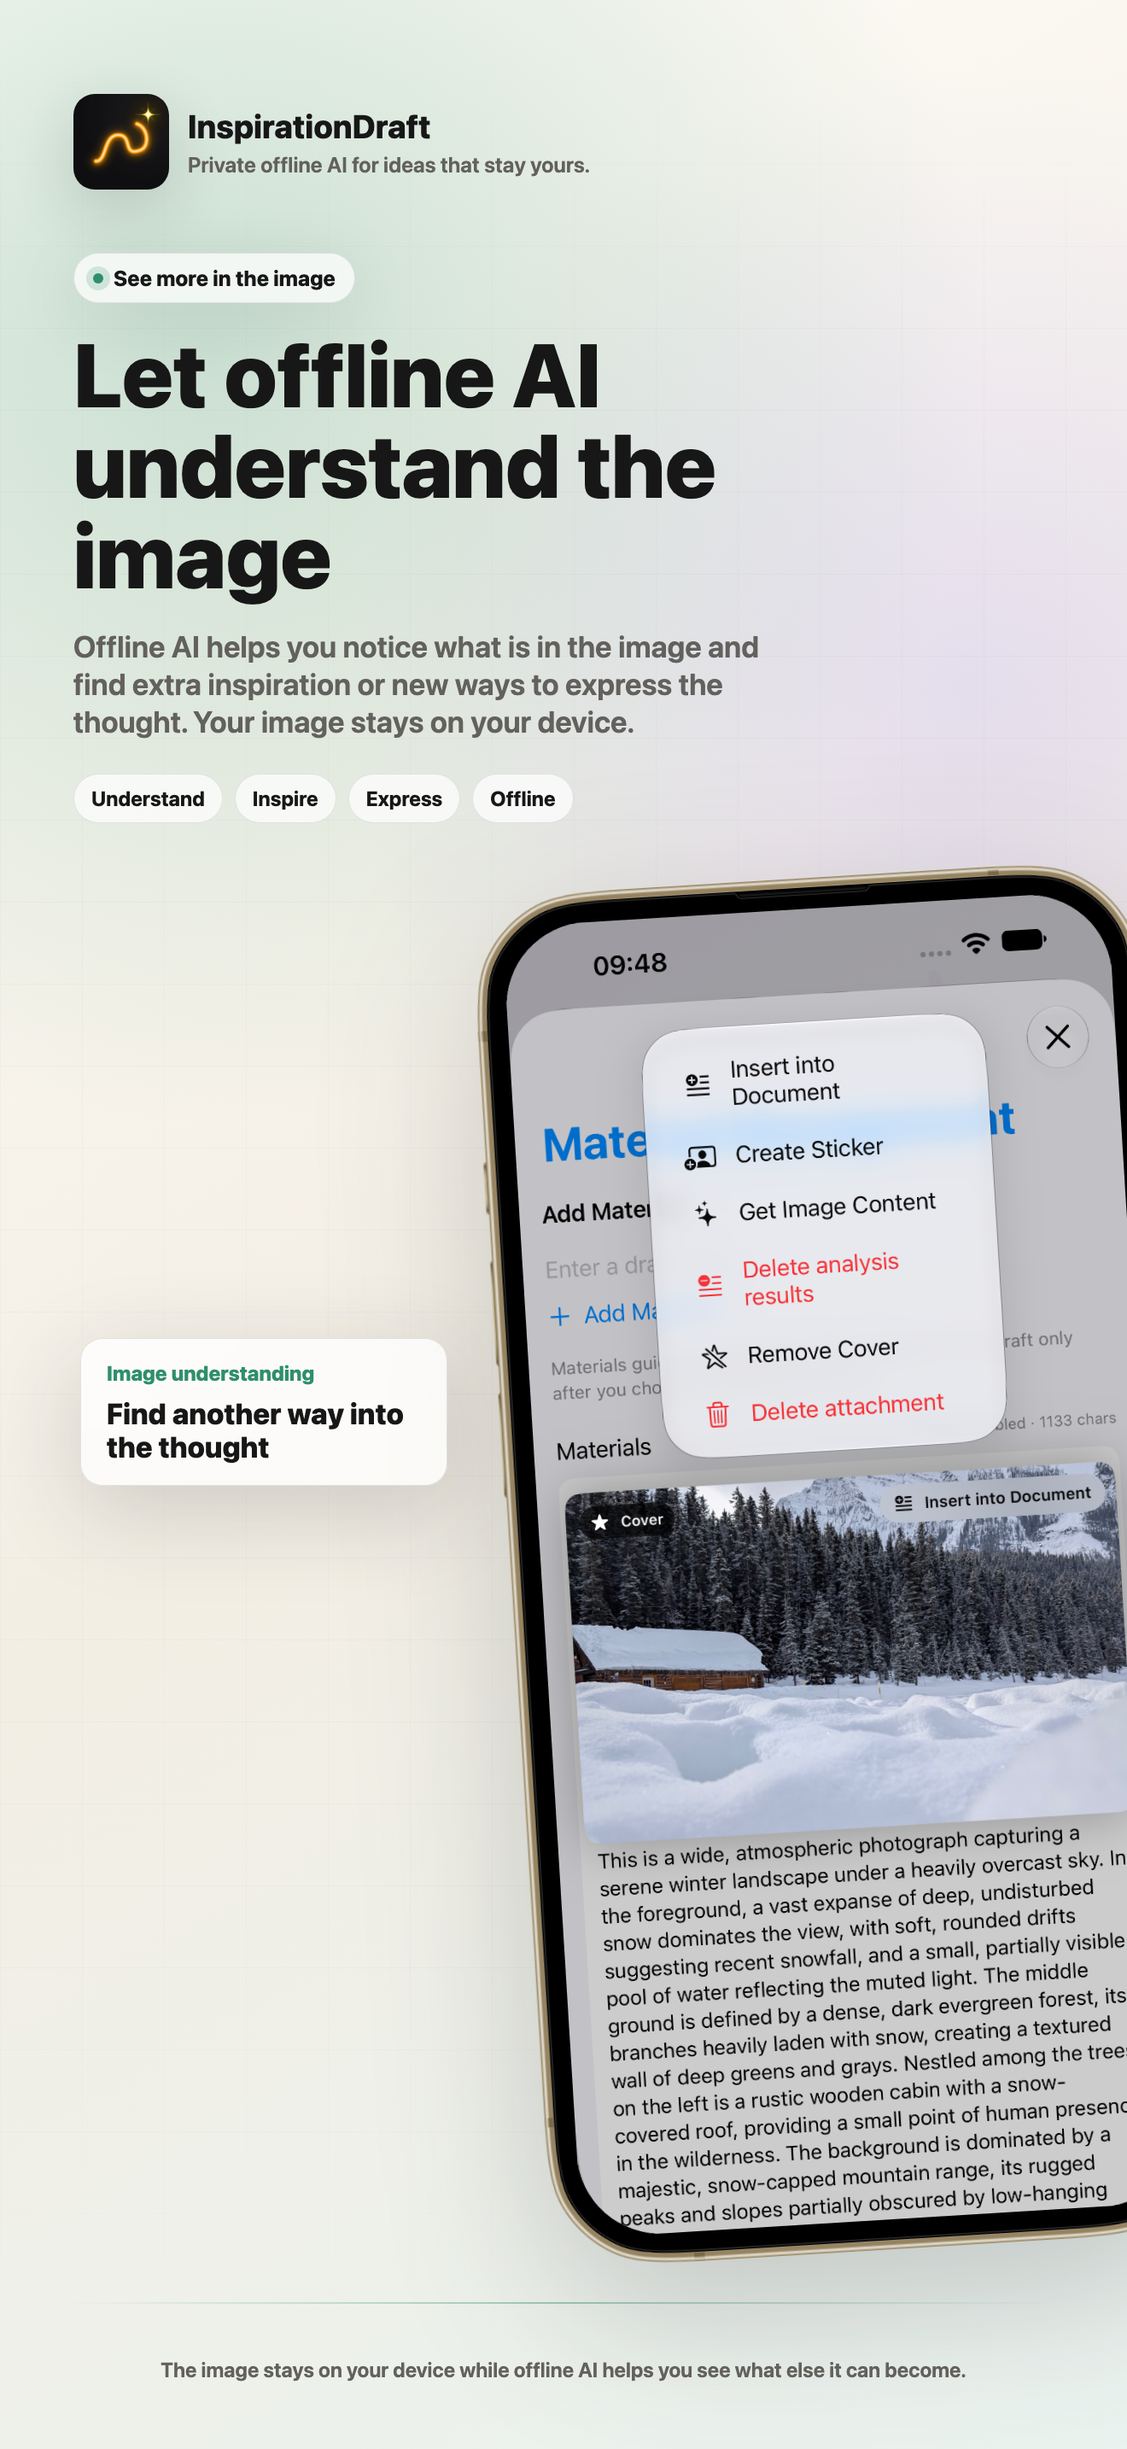
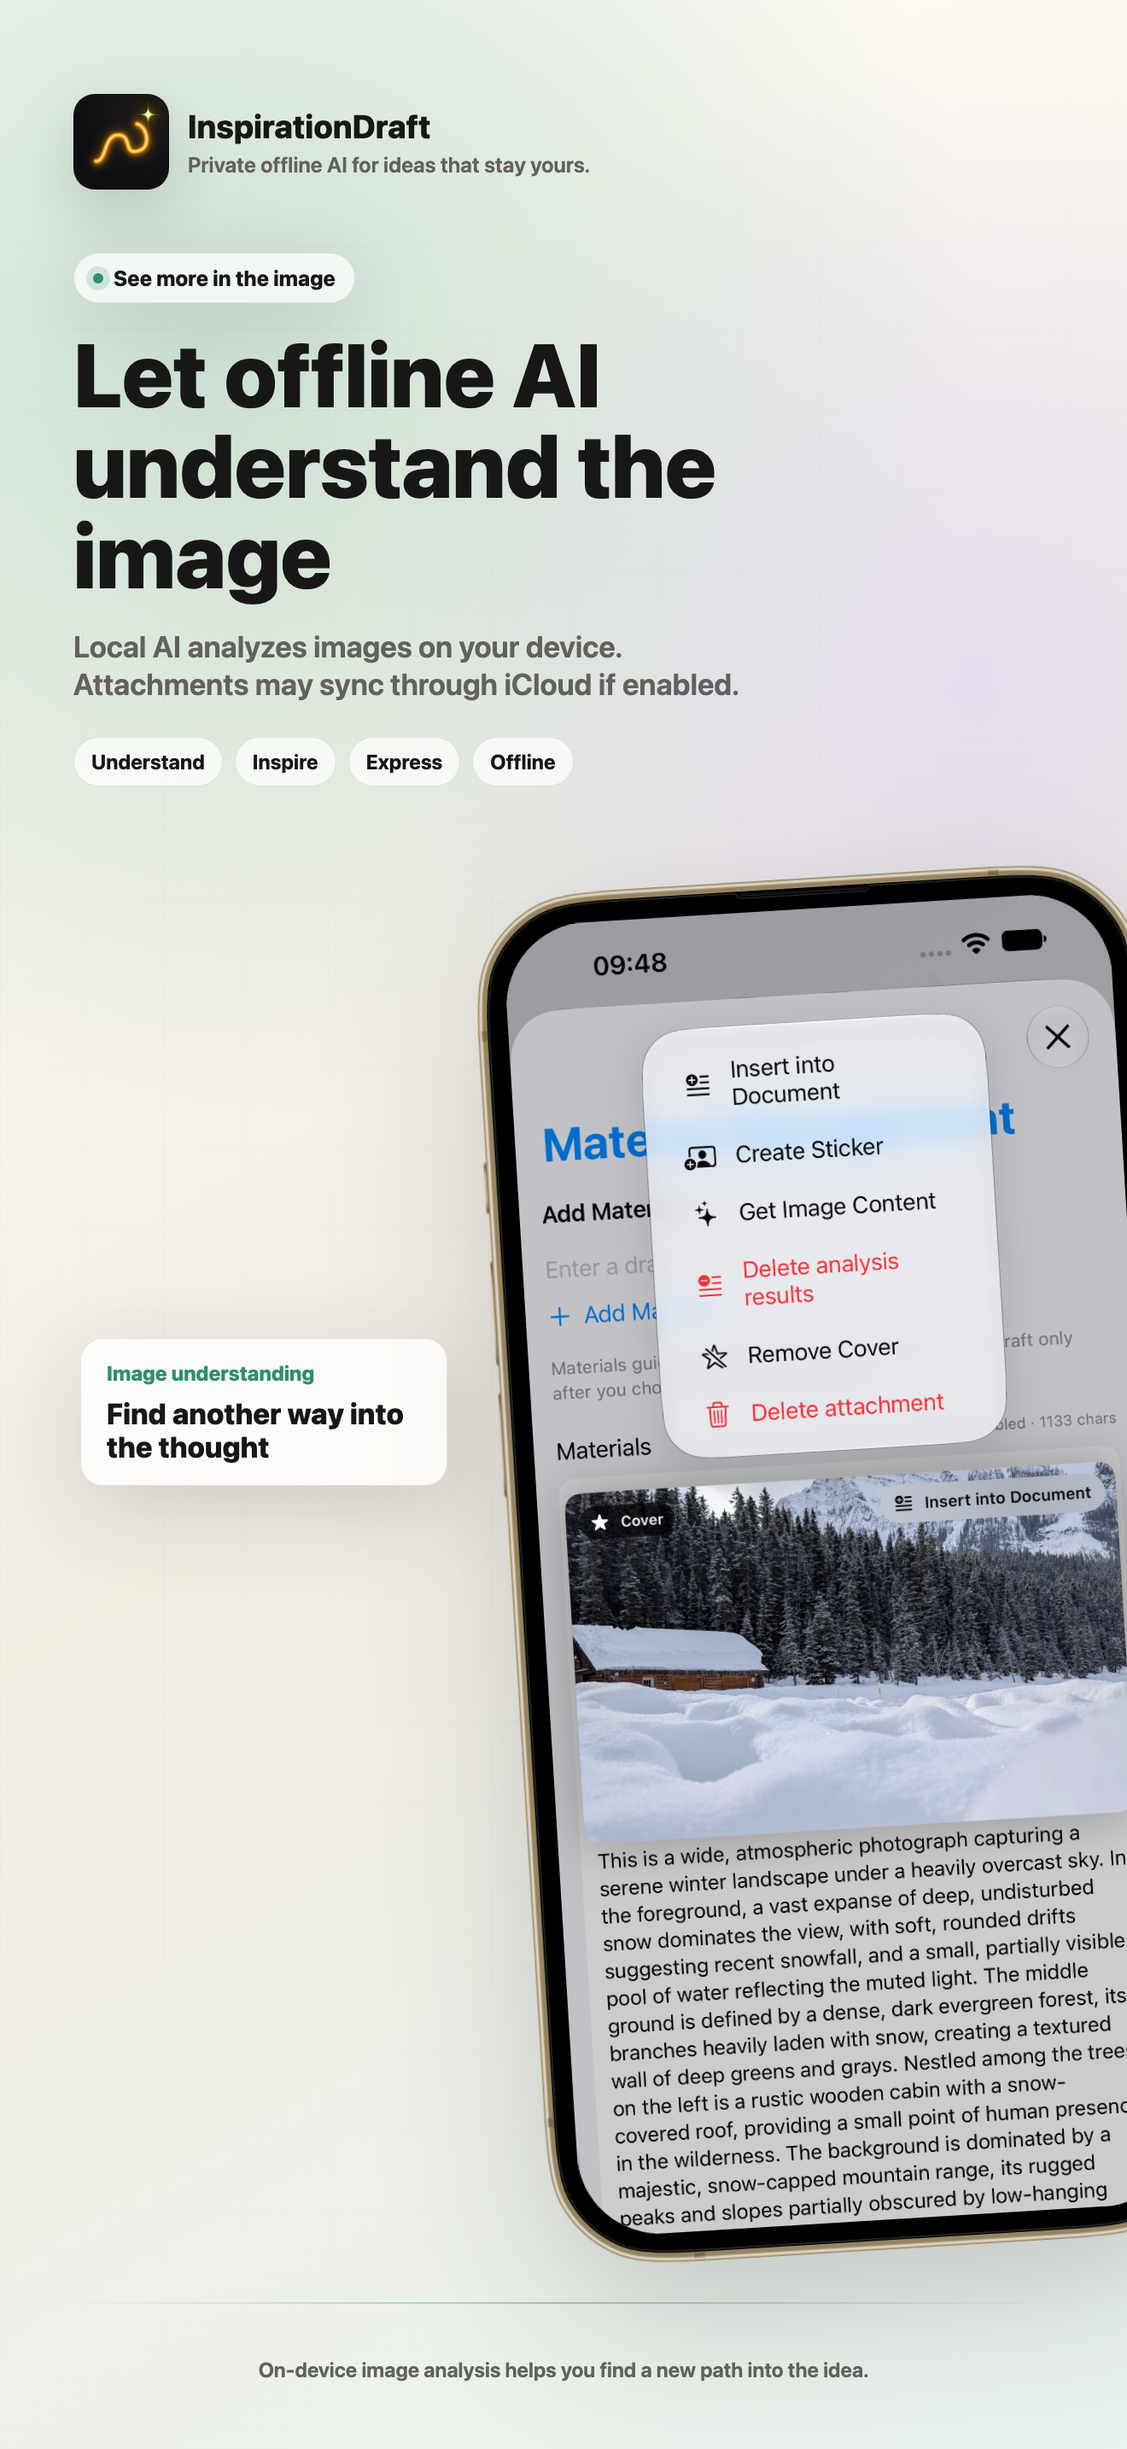
site: refresh privacy and follow-up copy

diff --git a/legal/privacy.html b/legal/privacy.html
@@ -23,36 +23,25 @@
     <a href="../index.html" style="text-decoration:none;">&larr; Back to Home</a>
   </div>
   <h1>Privacy Policy</h1>
-  <p><strong>Last Updated: July 20, 2026</strong></p>
+  <p><strong>Last Updated: October 7, 2026</strong></p>
 
-  <h2>1. We don't want your data.</h2>
-  <p>InspirationDraft ("the App") is built on the foundation of privacy. We do not collect, transmit, or store your drafts, notes, or ideas on our servers. All draft content is stored locally on your device and optionally synced via iCloud — accessible only to you. We do not operate user accounts or any backend data service.</p>
+  <h2>1. Draft Storage</h2>
+  <p>InspirationDraft ("the App") is built on the foundation of privacy. We do not collect, transmit, or store your drafts, notes, or ideas on our servers. Drafts are stored locally on your device. If iCloud Drive is enabled, drafts and related attachments may sync to your personal iCloud account through Apple's infrastructure. We do not operate user accounts or a backend service for storing draft content.</p>
 
-  <h2>2. Optional Third-Party AI Integration</h2>
-  <p>InspirationDraft includes an optional AI feature that you can activate by configuring your own Base URL, API Key, and model in the app's Settings. This feature is entirely user-initiated — you choose if, when, and which endpoint to use.</p>
-  <p>When you use an AI thinking method, rewrite, or other AI action with a configured endpoint, the app sends the following text to the Base URL you provided:</p>
-  <ul>
-    <li>The draft text you are working on</li>
-    <li>Any context materials or images you have explicitly attached to the draft</li>
-    <li>Derived image assets such as subject stickers and image-analysis results associated with those attachments</li>
-    <li>The selected thinking method or rewrite instruction</li>
-  </ul>
-  <p><strong>Only what you explicitly submit is sent.</strong> InspirationDraft does not intermediate, log, or retain these AI requests. The third-party provider you configure handles this data under their own privacy policy; you are responsible for reviewing and accepting their terms before configuring their endpoint.</p>
-
-  <h2>3. Optional Local AI Model Download</h2>
+  <h2>2. Optional Local AI Model Download</h2>
   <p>InspirationDraft offers an optional on-device AI feature. After you download the Local AI model, all AI thinking and rewrite actions run entirely on your device — no internet connection is required for inference, and no draft content is sent to any server for AI processing.</p>
   <p>The model download requires an internet connection, may be large, and is stored on your device until you remove it or delete the app. The download host or content delivery network may process standard network request information (such as IP address, request time, user agent, and file version) as needed to deliver the model and maintain security and reliability.</p>
 
-  <h2>4. iCloud Sync</h2>
+  <h2>3. iCloud Sync</h2>
   <p>If you have iCloud Drive enabled, your drafts, version history, attached images, derived stickers, and associated image-analysis data may sync via Apple's iCloud infrastructure. This data is stored in your personal iCloud account and is not accessible to us. Your iCloud data is governed by Apple's Privacy Policy.</p>
 
-  <h2>5. Paid App Purchase</h2>
+  <h2>4. App Store Purchase</h2>
   <p>InspirationDraft is currently sold as a paid upfront app. This version does not provide in-app purchases, auto-renewable subscriptions, or extra Pro unlocks. Payment is processed entirely by Apple through the App Store. We do not receive or store your payment details.</p>
 
-  <h2>6. App Store &amp; Analytics</h2>
+  <h2>5. Analytics</h2>
   <p>We may receive anonymized crash reports and app usage telemetry directly through Apple if you have opted in to share analytics with developers via iOS Settings. We use this solely to fix bugs and improve performance. We do not use any third-party analytics or tracking SDKs.</p>
 
-  <h2>7. Contact Us</h2>
+  <h2>6. Contact Us</h2>
   <p>If you have any questions about this Privacy Policy, please contact us at: <a href="mailto:breet.jia@gmail.com">breet.jia@gmail.com</a>.</p>
 
   <footer style="margin-top: 4rem; opacity: 0.5; font-size: 0.8rem;">

diff --git a/js/main.js b/js/main.js
@@ -22,7 +22,7 @@ const translations = {
     },
     feature2: {
       title: "Let offline AI<br>understand the image",
-      p1: "Offline AI helps you notice what is in the image and find extra inspiration or new ways to express the thought. Your image stays on your device.",
+      p1: "With Local AI, image analysis runs on your device. Attachments may sync through iCloud if enabled.",
       m1: "<strong>Get Image Content:</strong> Let offline AI describe what is in the image and open another way into the thought.",
       m2: "<strong>Insert into Document:</strong> Bring the useful context into the draft at the point where it matters.",
       m3: "<strong>Create Sticker:</strong> Use a derived form only when it helps the idea, without making it the point of the story.",
@@ -42,13 +42,13 @@ const translations = {
     },
     feature5: {
       title: "Keep creating<br>and keep it private",
-      p1: "<strong>Fully local:</strong> Suggestions and rewrites run on your iPhone instead of sending your unfinished ideas to a server.",
+      p1: "<strong>On-device AI:</strong> After you download Local AI, thinking and rewrites run on your iPhone. Drafts and attachments may sync through iCloud if enabled.",
       p2: "Your voice, your images, and the sparks that are still becoming ideas stay under your control."
     },
     privacy: {
-      title1: "Private offline AI",
+      title1: "On-device AI, ideas under your control",
       title2: "A quiet creative companion",
-      p1: "InspirationDraft is designed for people who want help without surrendering authorship. <strong>Suggestions and rewrites run on your device.</strong> No account, no tracking, no server-side draft processing."
+      p1: "InspirationDraft is designed for people who want help without surrendering authorship. <strong>Suggestions and rewrites run on your device after you download Local AI.</strong> No app account or third-party tracking SDKs. Drafts and attachments may sync through your iCloud account if enabled."
     },
     footer: {
       support: "Support",
@@ -78,7 +78,7 @@ const translations = {
     },
     feature2: {
       title: "让离线 AI<br>理解图片内容",
-      p1: "离线 AI 帮你看见图片里的内容，获得额外的灵感和表达方式。图片留在设备上，不会被上传。",
+      p1: "启用本地 AI 后，图片分析在设备端完成。若开启 iCloud，附件可能通过 iCloud 同步。",
       m1: "<strong>获取图片内容：</strong>让离线 AI 描述图片里的内容，打开进入想法的另一条路径。",
       m2: "<strong>插入到文档：</strong>把真正有用的上下文带到草稿需要它的位置。",
       m3: "<strong>生成贴纸：</strong>只有当派生形态有助于想法时才使用，不让它成为故事主角。",
@@ -98,13 +98,13 @@ const translations = {
     },
     feature5: {
       title: "继续创作<br>也继续保持私密",
-      p1: "<strong>完全本地：</strong>建议和改写都在 iPhone 上完成，不把尚未成形的想法交给服务器。",
+      p1: "<strong>设备端 AI：</strong>下载本地 AI 后，思考与改写在 iPhone 上完成。草稿和附件可能按你的 iCloud 设置同步。",
       p2: "你的声音、图片，以及仍在生长中的灵感火花，始终由你掌控。"
     },
     privacy: {
-      title1: "完全本地，真正私密",
+      title1: "本地 AI，灵感由你掌控",
       title2: "沉默的创作伙伴",
-      p1: "灵感树洞是给那些想要帮助、又不想交出作者感的人准备的。<strong>建议和改写都在设备端完成。</strong> 不用注册、没有追踪、也没有服务端内容处理。"
+      p1: "灵感树洞是给那些想要帮助、又不想交出作者感的人准备的。<strong>下载本地 AI 后，建议和改写在设备端完成。</strong> 无需注册账号，也不使用第三方追踪 SDK。若开启 iCloud，草稿和附件可能通过个人 iCloud 账户同步。"
     },
     footer: {
       support: "应用支持",

diff --git a/support.html b/support.html
@@ -31,11 +31,10 @@
     <li>If the download fails, check your connection, keep the app open, and try again.</li>
     <li>If storage is low, free up device space or remove the model and re-download later.</li>
     <li>Once installed, all AI thinking and rewrite actions run on-device — no internet required.</li>
-    <li>You can also configure your own OpenAI-compatible endpoint in Settings if you prefer cloud AI.</li>
   </ul>
 
   <h2>Privacy and Data</h2>
-  <p>Your drafts, attached images, derived stickers, and image-analysis results are stored locally and may sync through your private iCloud account. InspirationDraft does not operate a backend draft store. When using Local AI, inference runs on your device. If you configure a third-party AI endpoint, only the content you explicitly submit is sent to the endpoint you chose.</p>
+  <p>Your drafts, attached images, derived stickers, and image-analysis results are stored locally and may sync through your iCloud account, depending on your iCloud settings. InspirationDraft does not operate a backend for storing drafts. After you download Local AI, AI features run on your device and do not send draft content to an AI server.</p>
 
   <h2>Images, editing, and export</h2>
   <p>You can preview, rotate, restore, and turn image subjects into stickers inside a draft. Markdown image blocks remain linked to their stored attachments while you edit. Image-rich drafts can be exported as PDF or MHTML with document branding, dates, rounded images, and sticker glow.</p>
@@ -46,17 +45,17 @@
   <h2>Scene Categories</h2>
   <p>You can organise drafts using built-in scene tags (Work, Startup, Writing, Learning, etc.) or create custom categories. To manage categories, go to Settings → Scene Categories.</p>
 
-  <h2>Organize Ideas and Create Reminders</h2>
+  <h2>Organize Ideas and Follow Up</h2>
   <p>From a draft card on the home screen, open the context menu and choose <strong>Organize Idea</strong> to fill in missing metadata without replacing information you already added.</p>
-  <p>Choose <strong>Convert to Reminder</strong> to let the ready local model split an idea into one or more reminder drafts. Review the read-only preview, deselect any item you do not want, then tap <strong>Add to Reminders</strong>. Only the items you leave selected are written to Apple Reminders.</p>
+  <p>Choose <strong>Add to Follow-up List</strong> when you want to keep an idea moving. When action recognition is enabled, InspirationDraft can identify actionable tasks for you to review. Confirm the tasks you want to pursue; Apple Reminders sync follows your settings and permission. Your original idea stays in InspirationDraft.</p>
   <ul>
-    <li>Reminder conversion requires the selected local model to be ready.</li>
-    <li>Dates are left blank unless the idea contains a clear absolute date.</li>
-    <li>No reminder is created until you confirm the preview.</li>
+    <li>Action recognition requires the Local AI model to be downloaded and ready.</li>
+    <li>Apple Reminders sync requires your permission and the in-app sync setting.</li>
+    <li>Only tasks you confirm are added to Apple Reminders.</li>
   </ul>
 
   <h2>Legal</h2>
-  <p>Read the <a href="legal/privacy.html">Privacy Policy</a> and <a href="legal/terms.html">Terms of Use</a> for details about Local AI downloads, third-party API endpoints, paid App Store purchase handling, and AI output limitations.</p>
+  <p>Read the <a href="legal/privacy.html">Privacy Policy</a> and <a href="legal/terms.html">Terms of Use</a> for details about Local AI downloads, iCloud sync, App Store purchases, and AI output limitations.</p>
 
   <h2>Accessibility</h2>
   <p>Read our <a href="accessibility.html">Accessibility page</a> for details about VoiceOver, Dynamic Type, and how to contact us about accessibility barriers.</p>

diff --git a/index.html b/index.html
@@ -123,7 +123,7 @@
     <section class="feature-row">
       <div class="feature-text">
         <h2 data-i18n="feature2.title">Let offline AI<br>understand the image</h2>
-        <p data-i18n="feature2.p1">Offline AI helps you notice what is in the image and find extra inspiration or new ways to express the thought. Your image stays on your device.</p>
+        <p data-i18n="feature2.p1">With Local AI, image analysis runs on your device. Attachments may sync through iCloud if enabled.</p>
         <ul class="methods-list">
           <li data-i18n="feature2.m1"><strong>Get Image Content:</strong> Let offline AI describe what is in the image and open another way into the thought.</li>
           <li data-i18n="feature2.m2"><strong>Insert into Document:</strong> Bring the useful context into the draft at the point where it matters.</li>
@@ -172,7 +172,7 @@
     <section class="feature-row">
       <div class="feature-text">
         <h2 data-i18n="feature5.title">Keep creating<br>and keep it private</h2>
-        <p data-i18n="feature5.p1"><strong>Fully local:</strong> Suggestions and rewrites run on your iPhone instead of sending your unfinished ideas to a server.</p>
+        <p data-i18n="feature5.p1"><strong>On-device AI:</strong> After you download Local AI, thinking and rewrites run on your iPhone. Drafts and attachments may sync through iCloud if enabled.</p>
         <p data-i18n="feature5.p2">Your voice, your images, and the sparks that are still becoming ideas stay under your control.</p>
       </div>
       <div class="feature-visual">
@@ -184,10 +184,10 @@
 
     <!-- Privacy Section -->
     <section class="privacy-section">
-      <h2 class="text-gradient" style="margin-bottom: 1rem; display:inline-block;" data-i18n="privacy.title1">Private offline AI</h2>
+      <h2 class="text-gradient" style="margin-bottom: 1rem; display:inline-block;" data-i18n="privacy.title1">On-device AI, ideas under your control</h2>
       <h3 data-i18n="privacy.title2">A quiet creative companion</h3>
       <p data-i18n="privacy.p1" style="color: var(--color-text-secondary); max-width: 650px; margin: 1.5rem auto 0; font-size: 1.1rem; line-height: 1.8;">
-        InspirationDraft is designed for people who want help without surrendering authorship. <strong>Suggestions and rewrites run on your device.</strong> No account, no tracking, no server-side draft processing.
+        InspirationDraft is designed for people who want help without surrendering authorship. <strong>Suggestions and rewrites run on your device after you download Local AI.</strong> No app account or third-party tracking SDKs. Drafts and attachments may sync through your iCloud account if enabled.
       </p>
     </section>
 

diff --git a/legal/terms.html b/legal/terms.html
@@ -22,7 +22,7 @@
     <a href="../index.html" style="text-decoration:none;">&larr; Back to Home</a>
   </div>
   <h1>Terms of Use</h1>
-  <p><strong>Last Updated: July 20, 2026</strong></p>
+  <p><strong>Last Updated: October 7, 2026</strong></p>
 
   <h2>Paid App Purchase</h2>
   <p>InspirationDraft is currently offered as a paid upfront app through the App Store. This version does not provide in-app purchases, auto-renewable subscriptions, or extra Pro unlocks. The current purchase price is displayed by Apple on the App Store before download, and payment is processed by Apple through your Apple ID. Any refund requests or purchase issues are handled under Apple's App Store policies.</p>
@@ -37,11 +37,8 @@
   <h2>No Liability for Data Loss</h2>
   <p>InspirationDraft stores your drafts and associated image attachments locally and optionally syncs them via iCloud. We are not liable for any data loss resulting from device wiping, accidental deletions, iCloud sync conflicts, or OS issues. Please ensure iCloud Drive is enabled to maintain a backup of your drafts and attachments.</p>
 
-  <h2>Third-Party AI Endpoints</h2>
-  <p>You may elect to configure custom AI endpoints (e.g. OpenAI-compatible APIs). We do not control these services and you use such third-party APIs at your own risk. You are responsible for reviewing and accepting the terms of service of any endpoint you configure, and for ensuring that any draft content you submit complies with those terms.</p>
-
   <h2>Local AI Models</h2>
-  <p>InspirationDraft may allow you to download optional local AI model files for on-device AI thinking and rewrite features. Model downloads may be large, require sufficient device storage and network connectivity, and may be removed or re-downloaded from within the app. Third-party model files may be subject to their own open-source or provider license terms.</p>
+  <p>InspirationDraft may allow you to download an optional Local AI model for on-device thinking and rewrite features. The download may be large, requires sufficient device storage and network connectivity, and can be removed or re-downloaded from within the app. Downloaded models are subject to their applicable license terms.</p>
 
   <h2>AI Output</h2>
   <p>AI-generated suggestions, rewrites, thinking expansions, or other outputs may be incomplete or inaccurate. You are responsible for reviewing AI output before relying on it and for ensuring that your drafts and any AI-assisted content are used lawfully.</p>
